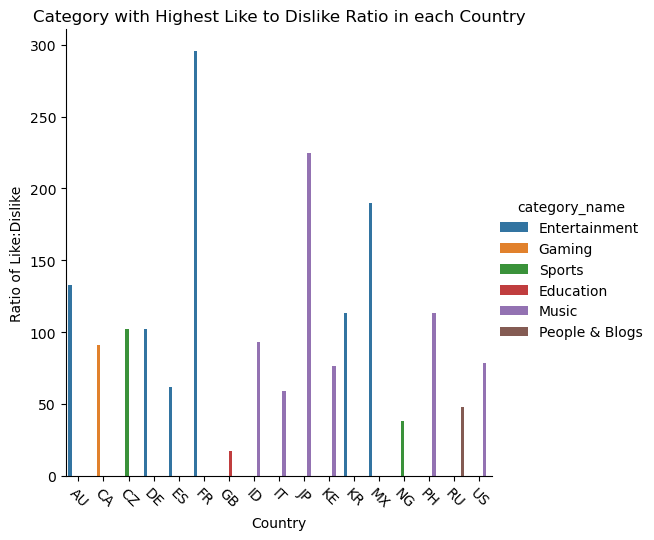
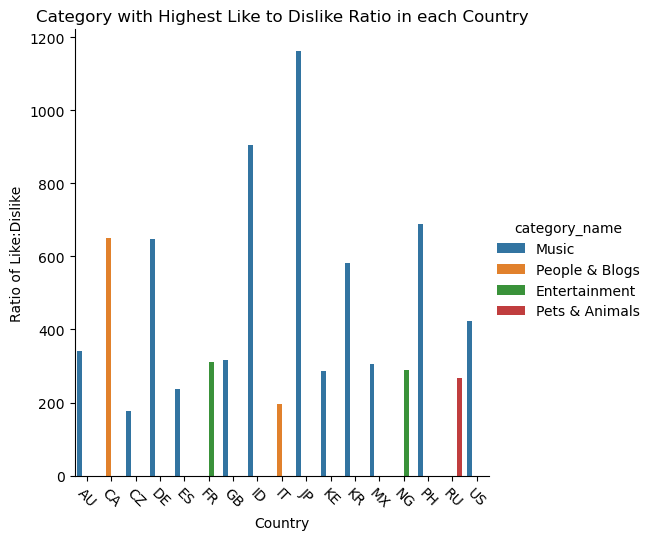
finished final plots

Changed region(s): [[0.0307, 0.0, 0.8282, 0.9778], [0.7669, 0.3556, 0.9816, 0.6222], [0.9509, 0.4148, 0.9816, 0.4444]]

diff --git a/youtube.py b/youtube.py
@@ -28,15 +28,15 @@ def build_df():
             video_df['category'].append(video['snippet']['categoryId'])
             video_df['views'].append(int(video['statistics']['viewCount']))
             if 'likeCount' not in video['statistics']:
-                video_df['likes'].append('na')
+                video_df['likes'].append(0)
             else:
                 video_df['likes'].append(int(video['statistics']['likeCount']))
             if 'dislikeCount' not in video['statistics']:
-                video_df['dislikes'].append('na')
+                video_df['dislikes'].append(0)
             else:
                 video_df['dislikes'].append(int(video['statistics']['dislikeCount']))
             if 'commentCount' not in video['statistics']:
-                video_df['comment_count'].append('na')
+                video_df['comment_count'].append(0)
             else:
                 video_df['comment_count'].append(int(video['statistics']['commentCount']))
     #create data frame
@@ -49,7 +49,7 @@ def build_categories_df():
         'part' : 'snippet',
         'regionCode' : 'US'
     }
-    cat = requests.get('https://www.googleapis.com/youtube/v3/videoCategories?key=your_api_key, params=parameters)
+    cat = requests.get('https://www.googleapis.com/youtube/v3/videoCategories?key=your_api_key', params=parameters)
     cat = cat.json()
     items = cat['items']
     for category in items:
@@ -69,7 +69,7 @@ def plot_likes_dislikes_ratio(category_df):
             'maxResults' : 50, #ranges from 1-50
             'regionCode' : country
         }
-        videos = requests.get("https://www.googleapis.com/youtube/v3/videos?key=your_API_key", params=parameters)
+        videos = requests.get("https://www.googleapis.com/youtube/v3/videos?key=your_api_key", params=parameters)
         videos = videos.json()
         items = videos['items']
         #add video information to dictionary
@@ -86,7 +86,7 @@ def plot_likes_dislikes_ratio(category_df):
                 ratio = round(likes / dislikes, 2)
                 video_df['likes/dislikes'].append(ratio)
     video_df = pd.DataFrame(video_df)
-    #do bar plot
+    #make bar plot
     max_ratio = video_df.groupby('country')['likes/dislikes'].max()
     merged = max_ratio.to_frame().merge(video_df, on=['country', 'likes/dislikes'], how='left')
     merge_category = merged.merge(category_df, left_on='category', right_on='id', how='left')
@@ -99,6 +99,7 @@ def plot_likes_dislikes_ratio(category_df):
 
 
 def world_like_dislike_raio(videos_df, categories_df):
+
     likes_df = videos_df.groupby('category')['likes'].sum()
     dislikes_df = videos_df.groupby('category')['dislikes'].sum()
     merged = likes_df.to_frame().merge(dislikes_df.to_frame(), on='category', how='left')
@@ -126,8 +127,8 @@ def world_views_plot(videos_df, categories_df):
 def main():
     video_df = build_df()
     categories_df = build_categories_df()
-    #plot_likes_dislikes_ratio(categories_df)
-    #world_views_plot(video_df, categories_df)
+    plot_likes_dislikes_ratio(categories_df)
+    world_views_plot(video_df, categories_df)
     world_like_dislike_raio(video_df, categories_df)
       
 if __name__ == '__main__':
